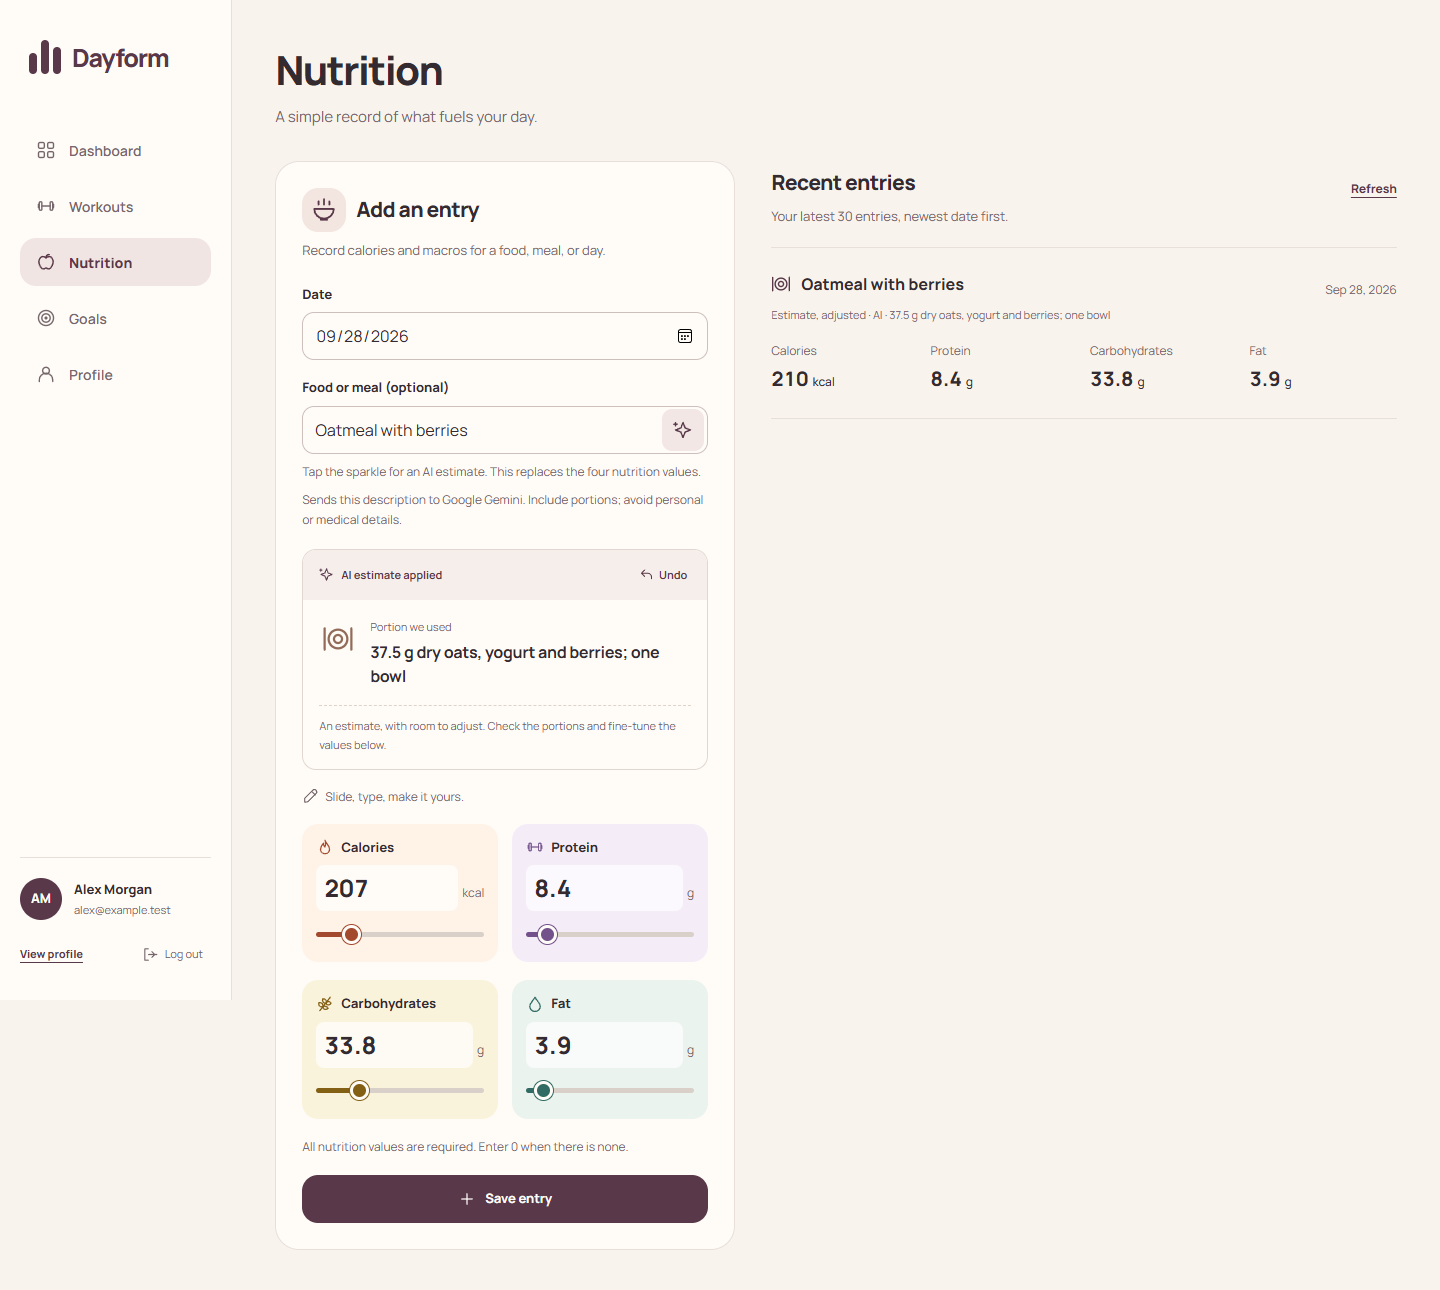
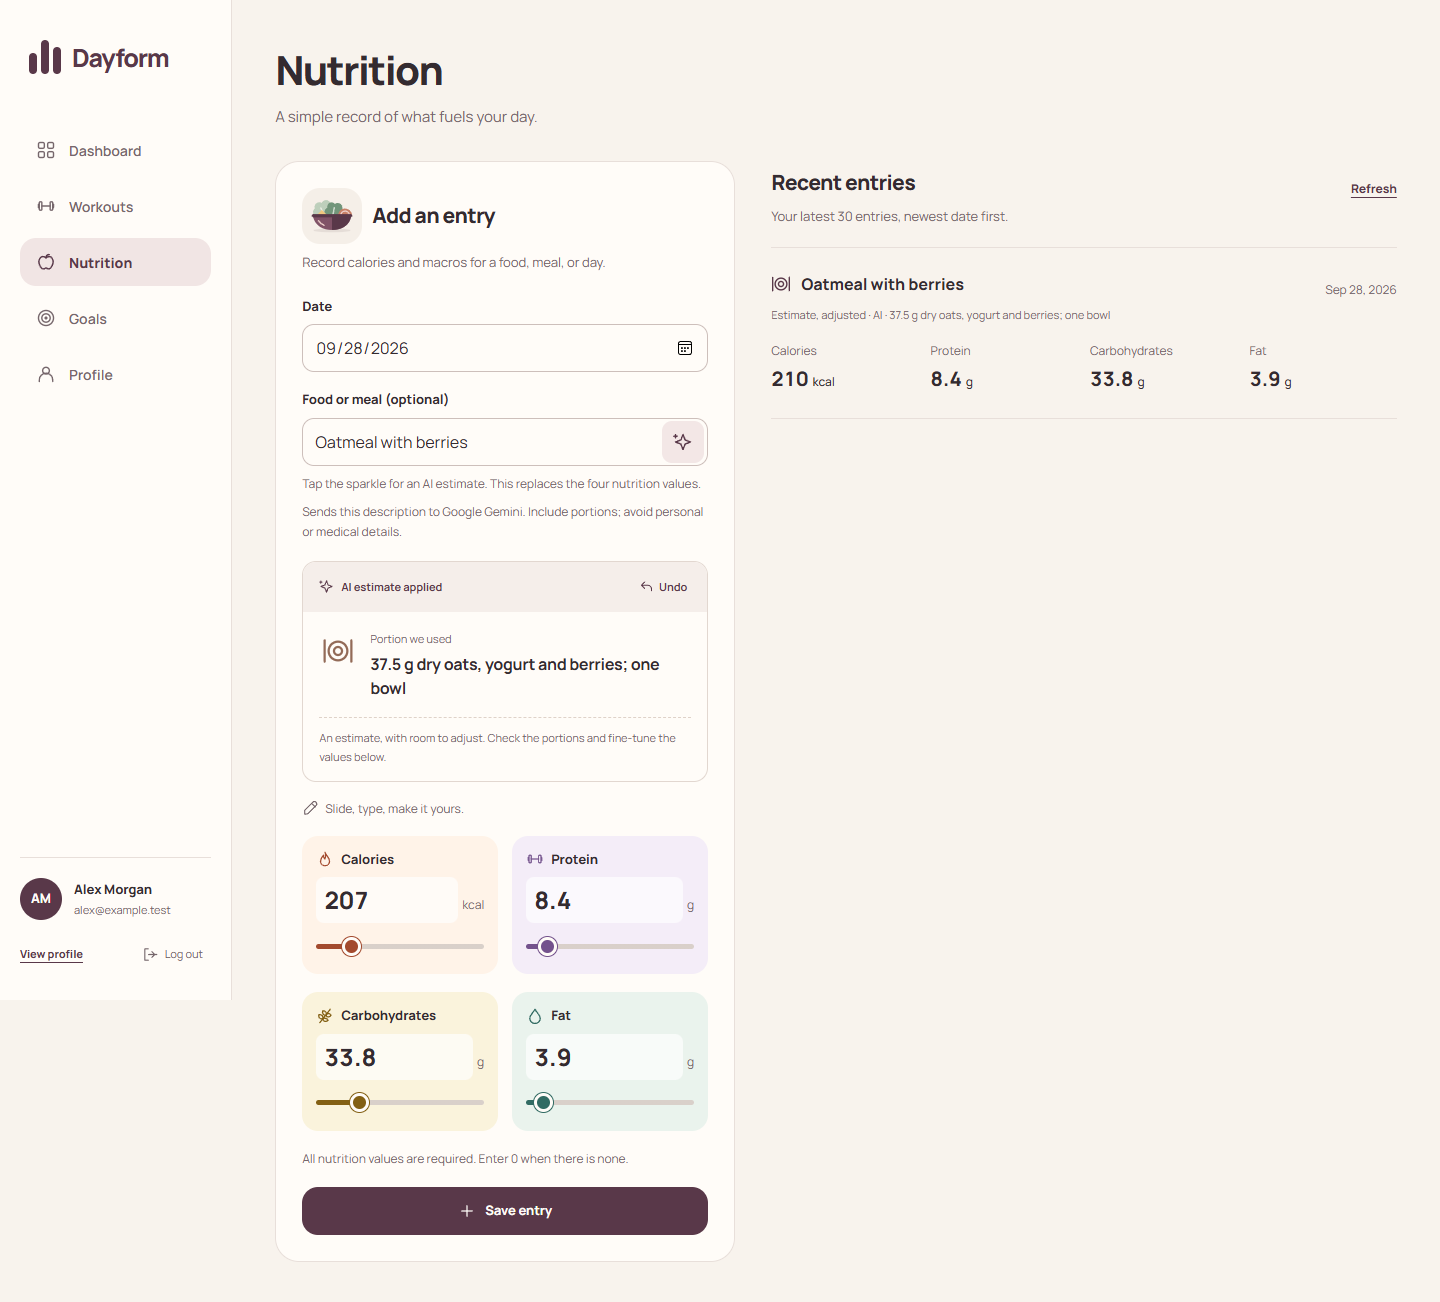
style: add matching salad bowl illustration to nutrition

diff --git a/frontend/src/pages/NutritionPage.jsx b/frontend/src/pages/NutritionPage.jsx
@@ -7,6 +7,7 @@ import NutrientInput, { nutrientControls } from "../components/NutrientInput.jsx
 import MealNameField from "../components/MealNameField.jsx";
 import { mealReferences } from "../../../shared/nutritionEstimates.mjs";
 import { mealDescriptionError } from "../../../shared/mealDescription.mjs";
+import saladBowl from "../assets/nutrition/salad-bowl.svg";
 import "./nutrition.css";
 
 const nutrients = [
@@ -193,7 +194,7 @@ function NutritionJournal() {
       </header>
       <div className="nutrition-layout">
         <section className="nutrition-composer" aria-labelledby="nutrition-add-title">
-          <h2 id="nutrition-add-title"><span className="nutrition-title-icon"><Icon name="bowl" size={26} /></span>Add an entry</h2>
+          <h2 id="nutrition-add-title"><span className="nutrition-title-icon"><img src={saladBowl} alt="" width="56" height="42" /></span>Add an entry</h2>
           <p>Record calories and macros for a food, meal, or day.</p>
           <form ref={form} onSubmit={save} noValidate>
             <fieldset disabled={saving}>

diff --git a/frontend/src/pages/nutrition.css b/frontend/src/pages/nutrition.css
@@ -243,12 +243,14 @@
 .nutrition-title-icon {
   display: grid;
   place-items: center;
-  width: 44px;
-  height: 44px;
-  color: var(--plum);
-  background: #f3e5e0;
-  border-radius: 16px;
+  flex-shrink: 0;
+  width: 60px;
+  height: 56px;
+  background: #f5efe8;
+  border-radius: 18px;
 }
+
+.nutrition-title-icon img { display: block; }
 
 .nutrition-entry h3 svg { color: var(--plum); }
 .nutrition-adjust-heading { display: flex; align-items: center; gap: 7px; color: var(--muted); font-size: 12px; }

diff --git a/docs/evidence/nutrition-gemini/README.md b/docs/evidence/nutrition-gemini/README.md
@@ -35,3 +35,7 @@ The two relevant existing browser tests passed again after this presentation-onl
 change, including Undo/provenance behavior, desktop/mobile axe scans and mobile
 overflow checks. The frontend production build also passed. Screenshots above
 show the updated layout.
+
+The heading now uses a custom salad-bowl SVG in the existing workout illustration
+palette. The desktop/mobile workflow and accessibility checks, plus the frontend
+build, passed again for this icon update.
